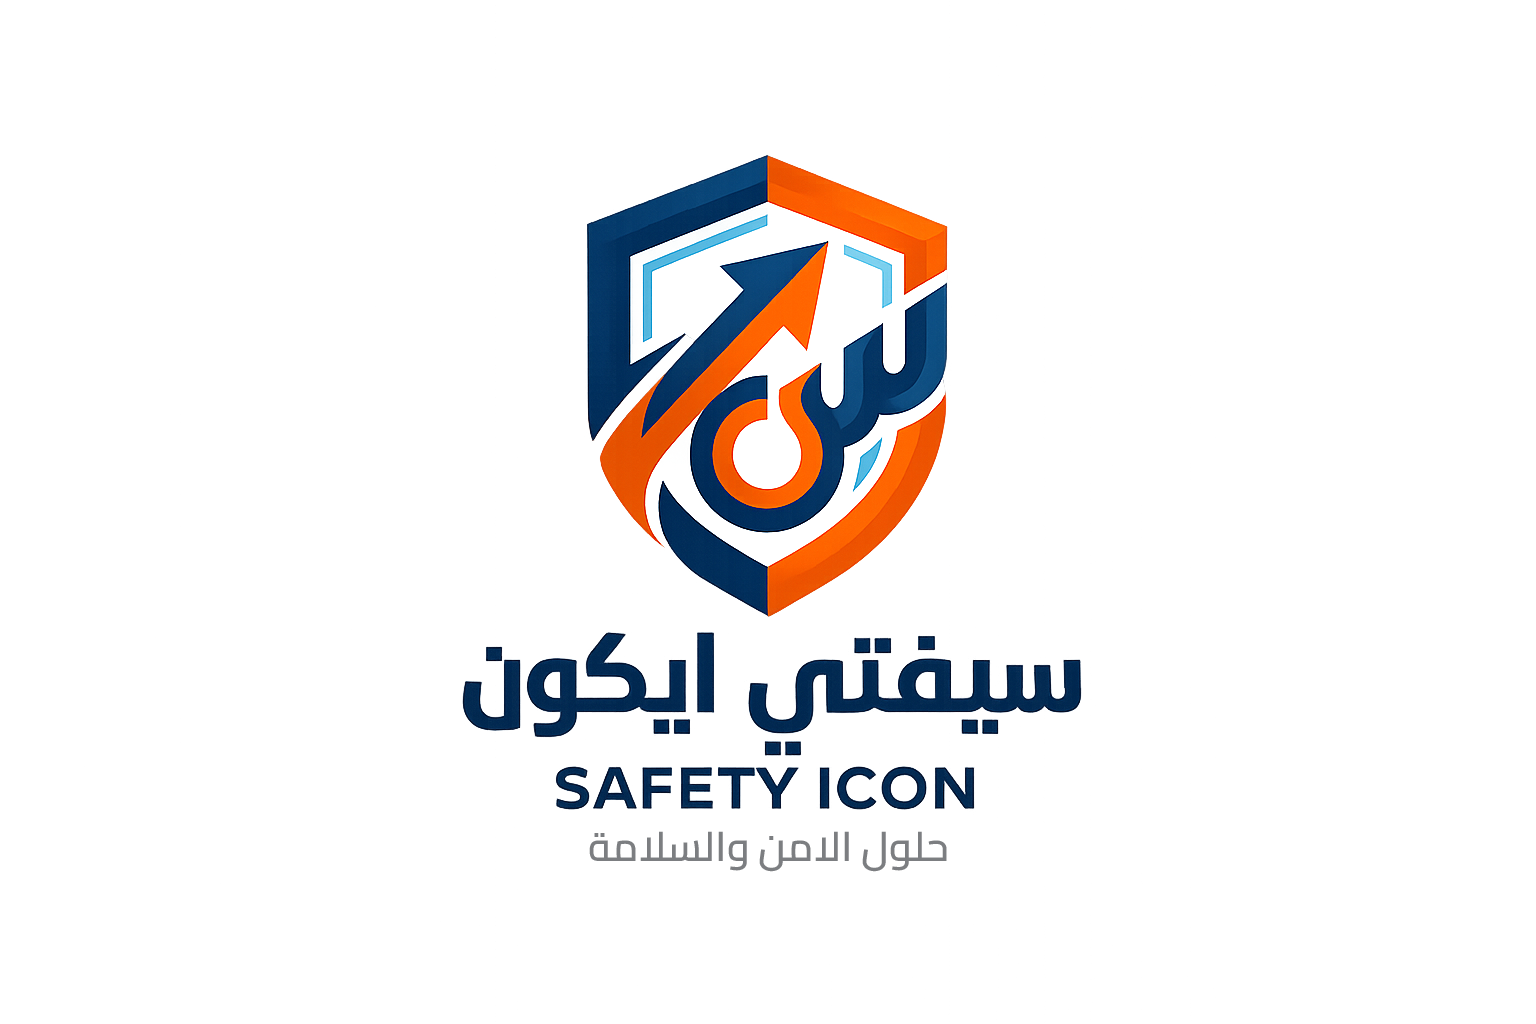
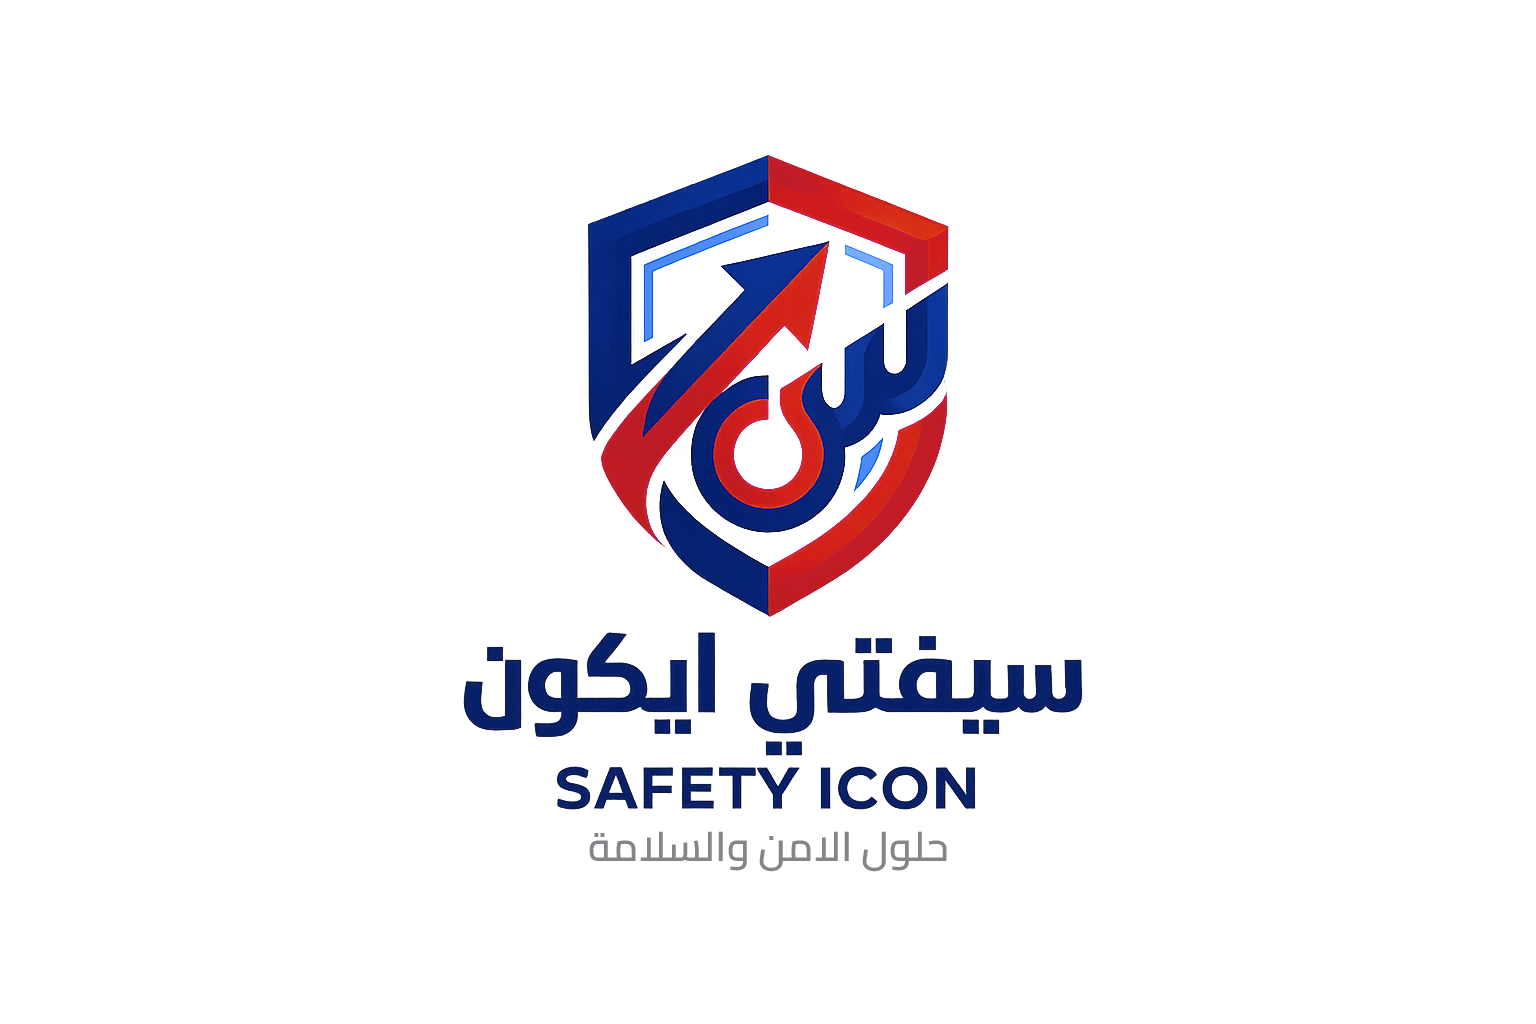
change

Changed region(s): [[0.375, 0.1562, 0.625, 0.5938], [0.3438, 0.625, 0.7188, 0.7812], [0.3125, 0.625, 0.4062, 0.7188]]

diff --git a/contact/index.html b/contact/index.html
@@ -264,7 +264,7 @@
   </div>
 
   <!-- Fire Accent Elements -->
-  <div class="absolute top-0 left-0 w-64 h-64 bg-orange-500/10 rounded-full blur-3xl"></div>
+  <div class="absolute top-0 left-0 w-64 h-64 bg-[#d42919]/10 rounded-full blur-3xl"></div>
   <div class="absolute bottom-0 right-0 w-96 h-96 bg-orange-600/10 rounded-full blur-3xl"></div>
 
   <!-- Content -->
@@ -273,34 +273,34 @@
       
       <!-- Breadcrumb / مسار الصفحة -->
       <div class="flex items-center gap-2 pt-8 text-sm text-gray-300 mb-4">
-        <a href="#" class="hover:text-orange-500 transition-colors">
+        <a href="#" class="hover:text-[#d42919] transition-colors">
           <i class="fas fa-home ml-1"></i>الرئيسية
         </a>
         <i class="fas fa-chevron-left text-xs text-gray-500"></i>
-        <span class="text-orange-500 font-medium">تواصل معنا</span>
+        <span class="text-[#d42919] font-medium">تواصل معنا</span>
       </div>
 
       <!-- Badge -->
-      <div class="inline-flex items-center gap-2 bg-orange-500/20 border border-orange-500/40 text-orange-400 text-xs font-bold px-4 py-2 rounded-full mb-5 backdrop-blur-sm">
-        <span class="w-2 h-2 bg-orange-500 rounded-full animate-pulse"></span>
+      <div class="inline-flex items-center gap-2 bg-[#d42919]/20 border border-[#d42919]/40 text-orange-400 text-xs font-bold px-4 py-2 rounded-full mb-5 backdrop-blur-sm">
+        <span class="w-2 h-2 bg-[#d42919] rounded-full animate-pulse"></span>
         سفتي آيكون للأمن والسلامة
       </div>
 
       <!-- Title -->
       <h1 class="text-4xl sm:text-5xl md:text-6xl font-black text-white leading-tight mb-5">
         <span class="block">تواصل معنا</span>
-        <span class="block text-orange-500 text-3xl sm:text-4xl md:text-5xl mt-2">نحن هنا لخدمتك على مدار الساعة</span>
+        <span class="block text-[#d42919] text-3xl sm:text-4xl md:text-5xl mt-2">نحن هنا لخدمتك على مدار الساعة</span>
       </h1>
 
       <!-- Description -->
       <p class="text-gray-300 text-base sm:text-lg leading-relaxed mb-8 max-w-2xl">
-        فريق <span class="text-orange-500 font-semibold">سفتي آيكون</span> جاهز للرد على استفساراتكم وتقديم الاستشارات المجانية 
+        فريق <span class="text-[#d42919] font-semibold">سفتي آيكون</span> جاهز للرد على استفساراتكم وتقديم الاستشارات المجانية 
         على مدار الساعة. تواصل معنا الآن للحصول على أفضل حلول الأمن والسلامة.
       </p>
 
       <!-- CTA Buttons -->
       <div class="flex flex-col sm:flex-row gap-4">
-        <a href="tel:966500000000" class="group flex items-center justify-center gap-2 bg-gradient-to-r from-orange-600 to-orange-500 hover:from-orange-500 hover:to-orange-600 text-white px-6 py-3 rounded-xl font-bold transition-all duration-300 hover:scale-105 shadow-lg">
+        <a href="tel:966500000000" class="group flex items-center justify-center gap-2 bg-gradient-to-r from-orange-600 to-[#d42919] hover:from-[#d42919] hover:to-orange-600 text-white px-6 py-3 rounded-xl font-bold transition-all duration-300 hover:scale-105 shadow-lg">
           <i class="fas fa-phone-alt"></i>
           اتصل بنا: 0500000000
         </a>
@@ -313,7 +313,7 @@
       <!-- Contact Info Stats -->
       <div class="flex flex-wrap gap-6 mt-10 pt-6 border-t border-white/10">
         <div class="text-center">
-          <div class="w-10 h-10 bg-orange-500/20 rounded-full flex items-center justify-center mx-auto mb-2">
+          <div class="w-10 h-10 bg-[#d42919]/20 rounded-full flex items-center justify-center mx-auto mb-2">
             <i class="fas fa-phone-alt text-orange-400 text-sm"></i>
           </div>
           <div class="text-white text-sm font-semibold">اتصل بنا</div>
@@ -321,7 +321,7 @@
         </div>
         <div class="w-px h-14 bg-white/10"></div>
         <div class="text-center">
-          <div class="w-10 h-10 bg-orange-500/20 rounded-full flex items-center justify-center mx-auto mb-2">
+          <div class="w-10 h-10 bg-[#d42919]/20 rounded-full flex items-center justify-center mx-auto mb-2">
             <i class="fab fa-whatsapp text-green-400 text-sm"></i>
           </div>
           <div class="text-white text-sm font-semibold">واتساب</div>
@@ -329,7 +329,7 @@
         </div>
         <div class="w-px h-14 bg-white/10"></div>
         <div class="text-center">
-          <div class="w-10 h-10 bg-orange-500/20 rounded-full flex items-center justify-center mx-auto mb-2">
+          <div class="w-10 h-10 bg-[#d42919]/20 rounded-full flex items-center justify-center mx-auto mb-2">
             <i class="fas fa-envelope text-orange-400 text-sm"></i>
           </div>
           <div class="text-white text-sm font-semibold">البريد الإلكتروني</div>
@@ -337,7 +337,7 @@
         </div>
         <div class="w-px h-14 bg-white/10"></div>
         <div class="text-center">
-          <div class="w-10 h-10 bg-orange-500/20 rounded-full flex items-center justify-center mx-auto mb-2">
+          <div class="w-10 h-10 bg-[#d42919]/20 rounded-full flex items-center justify-center mx-auto mb-2">
             <i class="fas fa-map-marker-alt text-orange-400 text-sm"></i>
           </div>
           <div class="text-white text-sm font-semibold">موقعنا</div>

diff --git a/about/index.html b/about/index.html
@@ -264,7 +264,7 @@
   </div>
 
   <!-- Fire Accent Elements -->
-  <div class="absolute top-0 left-0 w-64 h-64 bg-orange-500/10 rounded-full blur-3xl"></div>
+  <div class="absolute top-0 left-0 w-64 h-64 bg-[#d42919]/10 rounded-full blur-3xl"></div>
   <div class="absolute bottom-0 right-0 w-96 h-96 bg-orange-600/10 rounded-full blur-3xl"></div>
 
   <!-- Content -->
@@ -273,34 +273,34 @@
       
       <!-- Breadcrumb / مسار الصفحة -->
       <div class="flex items-center gap-2 pt-8 text-sm text-gray-300 mb-4">
-        <a href="#" class="hover:text-orange-500 transition-colors">
+        <a href="#" class="hover:text-[#d42919] transition-colors">
           <i class="fas fa-home ml-1"></i>الرئيسية
         </a>
         <i class="fas fa-chevron-left text-xs text-gray-500"></i>
-        <span class="text-orange-500 font-medium">من نحن</span>
+        <span class="text-[#d42919] font-medium">من نحن</span>
       </div>
 
       <!-- Badge -->
-      <div class="inline-flex items-center gap-2 bg-orange-500/20 border border-orange-500/40 text-orange-400 text-xs font-bold px-4 py-2 rounded-full mb-5 backdrop-blur-sm">
-        <span class="w-2 h-2 bg-orange-500 rounded-full animate-pulse"></span>
+      <div class="inline-flex items-center gap-2 bg-[#d42919]/20 border border-[#d42919]/40 text-orange-400 text-xs font-bold px-4 py-2 rounded-full mb-5 backdrop-blur-sm">
+        <span class="w-2 h-2 bg-[#d42919] rounded-full animate-pulse"></span>
         سفتي آيكون للأمن والسلامة
       </div>
 
       <!-- Title -->
       <h1 class="text-4xl sm:text-5xl md:text-6xl font-black text-white leading-tight mb-5">
         <span class="block">من نحن</span>
-        <span class="block text-orange-500 text-3xl sm:text-4xl md:text-5xl mt-2">شريكك الموثوق في الأمن والسلامة</span>
+        <span class="block text-[#d42919] text-3xl sm:text-4xl md:text-5xl mt-2">شريكك الموثوق في الأمن والسلامة</span>
       </h1>
 
       <!-- Description -->
       <p class="text-gray-300 text-base sm:text-lg leading-relaxed mb-8 max-w-2xl">
-        في <span class="text-orange-500 font-semibold">سفتي آيكون</span>، نؤمن بأن السلامة ليست مجرد خدمة نقدمها، بل هي رسالة نعيشها. 
+        في <span class="text-[#d42919] font-semibold">سفتي آيكون</span>، نؤمن بأن السلامة ليست مجرد خدمة نقدمها، بل هي رسالة نعيشها. 
         بخبرة تمتد لأكثر من 15 عاماً، نقدم حلولاً متكاملة لحماية المنشآت والأرواح.
       </p>
 
       <!-- CTA Buttons -->
       <div class="flex flex-col sm:flex-row gap-4">
-        <a href="tel:966500000000" class="group flex items-center justify-center gap-2 bg-gradient-to-r from-orange-600 to-orange-500 hover:from-orange-500 hover:to-orange-600 text-white px-6 py-3 rounded-xl font-bold transition-all duration-300 hover:scale-105 shadow-lg">
+        <a href="tel:966500000000" class="group flex items-center justify-center gap-2 bg-gradient-to-r from-orange-600 to-[#d42919] hover:from-[#d42919] hover:to-orange-600 text-white px-6 py-3 rounded-xl font-bold transition-all duration-300 hover:scale-105 shadow-lg">
           <i class="fas fa-phone-alt"></i>
           اتصل بنا: 0500000000
         </a>
@@ -313,22 +313,22 @@
       <!-- Quick Stats -->
       <div class="flex flex-wrap gap-6 mt-10 pt-6 border-t border-white/10">
         <div class="text-center">
-          <div class="text-2xl font-black text-orange-500">+500</div>
+          <div class="text-2xl font-black text-[#d42919]">+500</div>
           <div class="text-gray-400 text-xs">مشروع منجز</div>
         </div>
         <div class="w-px h-10 bg-white/10"></div>
         <div class="text-center">
-          <div class="text-2xl font-black text-orange-500">15+</div>
+          <div class="text-2xl font-black text-[#d42919]">15+</div>
           <div class="text-gray-400 text-xs">سنة خبرة</div>
         </div>
         <div class="w-px h-10 bg-white/10"></div>
         <div class="text-center">
-          <div class="text-2xl font-black text-orange-500">24/7</div>
+          <div class="text-2xl font-black text-[#d42919]">24/7</div>
           <div class="text-gray-400 text-xs">دعم طوارئ</div>
         </div>
         <div class="w-px h-10 bg-white/10"></div>
         <div class="text-center">
-          <div class="text-2xl font-black text-orange-500">100%</div>
+          <div class="text-2xl font-black text-[#d42919]">100%</div>
           <div class="text-gray-400 text-xs">رضا العملاء</div>
         </div>
       </div>

diff --git a/services/index.html b/services/index.html
@@ -271,34 +271,34 @@
       
       <!-- Breadcrumb / مسار الصفحة -->
       <div class="flex items-center gap-2 text-sm text-gray-300 mb-4">
-        <a href="#" class="hover:text-orange-500 transition-colors">
+        <a href="#" class="hover:text-[#d42919] transition-colors">
           <i class="fas fa-home ml-1"></i>الرئيسية
         </a>
         <i class="fas fa-chevron-left text-xs text-gray-500"></i>
-        <span class="text-orange-500 font-medium">خدماتنا</span>
+        <span class="text-[#d42919] font-medium">خدماتنا</span>
       </div>
 
       <!-- Badge -->
-      <div class="inline-flex items-center gap-2 bg-orange-500/20 border border-orange-500/40 text-orange-400 text-xs font-bold px-4 py-2 rounded-full mb-5 backdrop-blur-sm">
-        <span class="w-2 h-2 bg-orange-500 rounded-full animate-pulse"></span>
+      <div class="inline-flex items-center gap-2 bg-[#d42919]/20 border border-[#d42919]/40 text-orange-400 text-xs font-bold px-4 py-2 rounded-full mb-5 backdrop-blur-sm">
+        <span class="w-2 h-2 bg-[#d42919] rounded-full animate-pulse"></span>
         سفتي آيكون للأمن والسلامة
       </div>
 
       <!-- Title -->
       <h1 class="text-4xl sm:text-5xl md:text-6xl font-black text-white leading-tight mb-5">
         <span class="block">خدماتنا</span>
-        <span class="block text-orange-500 text-3xl sm:text-4xl md:text-5xl mt-2">الحلول المتكاملة للأمن والسلامة</span>
+        <span class="block text-[#d42919] text-3xl sm:text-4xl md:text-5xl mt-2">الحلول المتكاملة للأمن والسلامة</span>
       </h1>
 
       <!-- Description -->
       <p class="text-gray-300 text-base sm:text-lg leading-relaxed mb-8 max-w-2xl">
-        نقدم في <span class="text-orange-500 font-semibold">سفتي آيكون</span> منظومة متكاملة من خدمات وأنظمة السلامة ومكافحة الحرائق 
+        نقدم في <span class="text-[#d42919] font-semibold">سفتي آيكون</span> منظومة متكاملة من خدمات وأنظمة السلامة ومكافحة الحرائق 
         بأعلى المعايير العالمية، لحماية منشآتك وأرواح من تحب.
       </p>
 
       <!-- CTA Buttons -->
       <div class="flex flex-col sm:flex-row gap-4">
-        <a href="tel:966500000000" class="group flex items-center justify-center gap-2 bg-gradient-to-r from-orange-600 to-orange-500 hover:from-orange-500 hover:to-orange-600 text-white px-6 py-3 rounded-xl font-bold transition-all duration-300 hover:scale-105 shadow-lg">
+        <a href="tel:966500000000" class="group flex items-center justify-center gap-2 bg-gradient-to-r from-orange-600 to-[#d42919] hover:from-[#d42919] hover:to-orange-600 text-white px-6 py-3 rounded-xl font-bold transition-all duration-300 hover:scale-105 shadow-lg">
           <i class="fas fa-phone-alt"></i>
           اتصل بنا: 0500000000
         </a>
@@ -311,17 +311,17 @@
       <!-- Quick Stats -->
       <div class="flex flex-wrap gap-6 mt-10 pt-6 border-t border-white/10">
         <div class="text-center">
-          <div class="text-2xl font-black text-orange-500">+500</div>
+          <div class="text-2xl font-black text-[#d42919]">+500</div>
           <div class="text-gray-400 text-xs">مشروع منجز</div>
         </div>
         <div class="w-px h-10 bg-white/10"></div>
         <div class="text-center">
-          <div class="text-2xl font-black text-orange-500">15+</div>
+          <div class="text-2xl font-black text-[#d42919]">15+</div>
           <div class="text-gray-400 text-xs">سنة خبرة</div>
         </div>
         <div class="w-px h-10 bg-white/10"></div>
         <div class="text-center">
-          <div class="text-2xl font-black text-orange-500">24/7</div>
+          <div class="text-2xl font-black text-[#d42919]">24/7</div>
           <div class="text-gray-400 text-xs">دعم طوارئ</div>
         </div>
       </div>
@@ -355,7 +355,7 @@
   <!-- Background Accent -->
   <div class="absolute inset-0 opacity-5">
     <div class="absolute top-20 left-10 w-72 h-72 bg-fire-600 rounded-full blur-3xl"></div>
-    <div class="absolute bottom-20 right-10 w-96 h-96 bg-orange-500 rounded-full blur-3xl"></div>
+    <div class="absolute bottom-20 right-10 w-96 h-96 bg-[#d42919] rounded-full blur-3xl"></div>
   </div>
 
   <div class="max-w-7xl mx-auto px-4 sm:px-6 lg:px-8 relative z-10">
